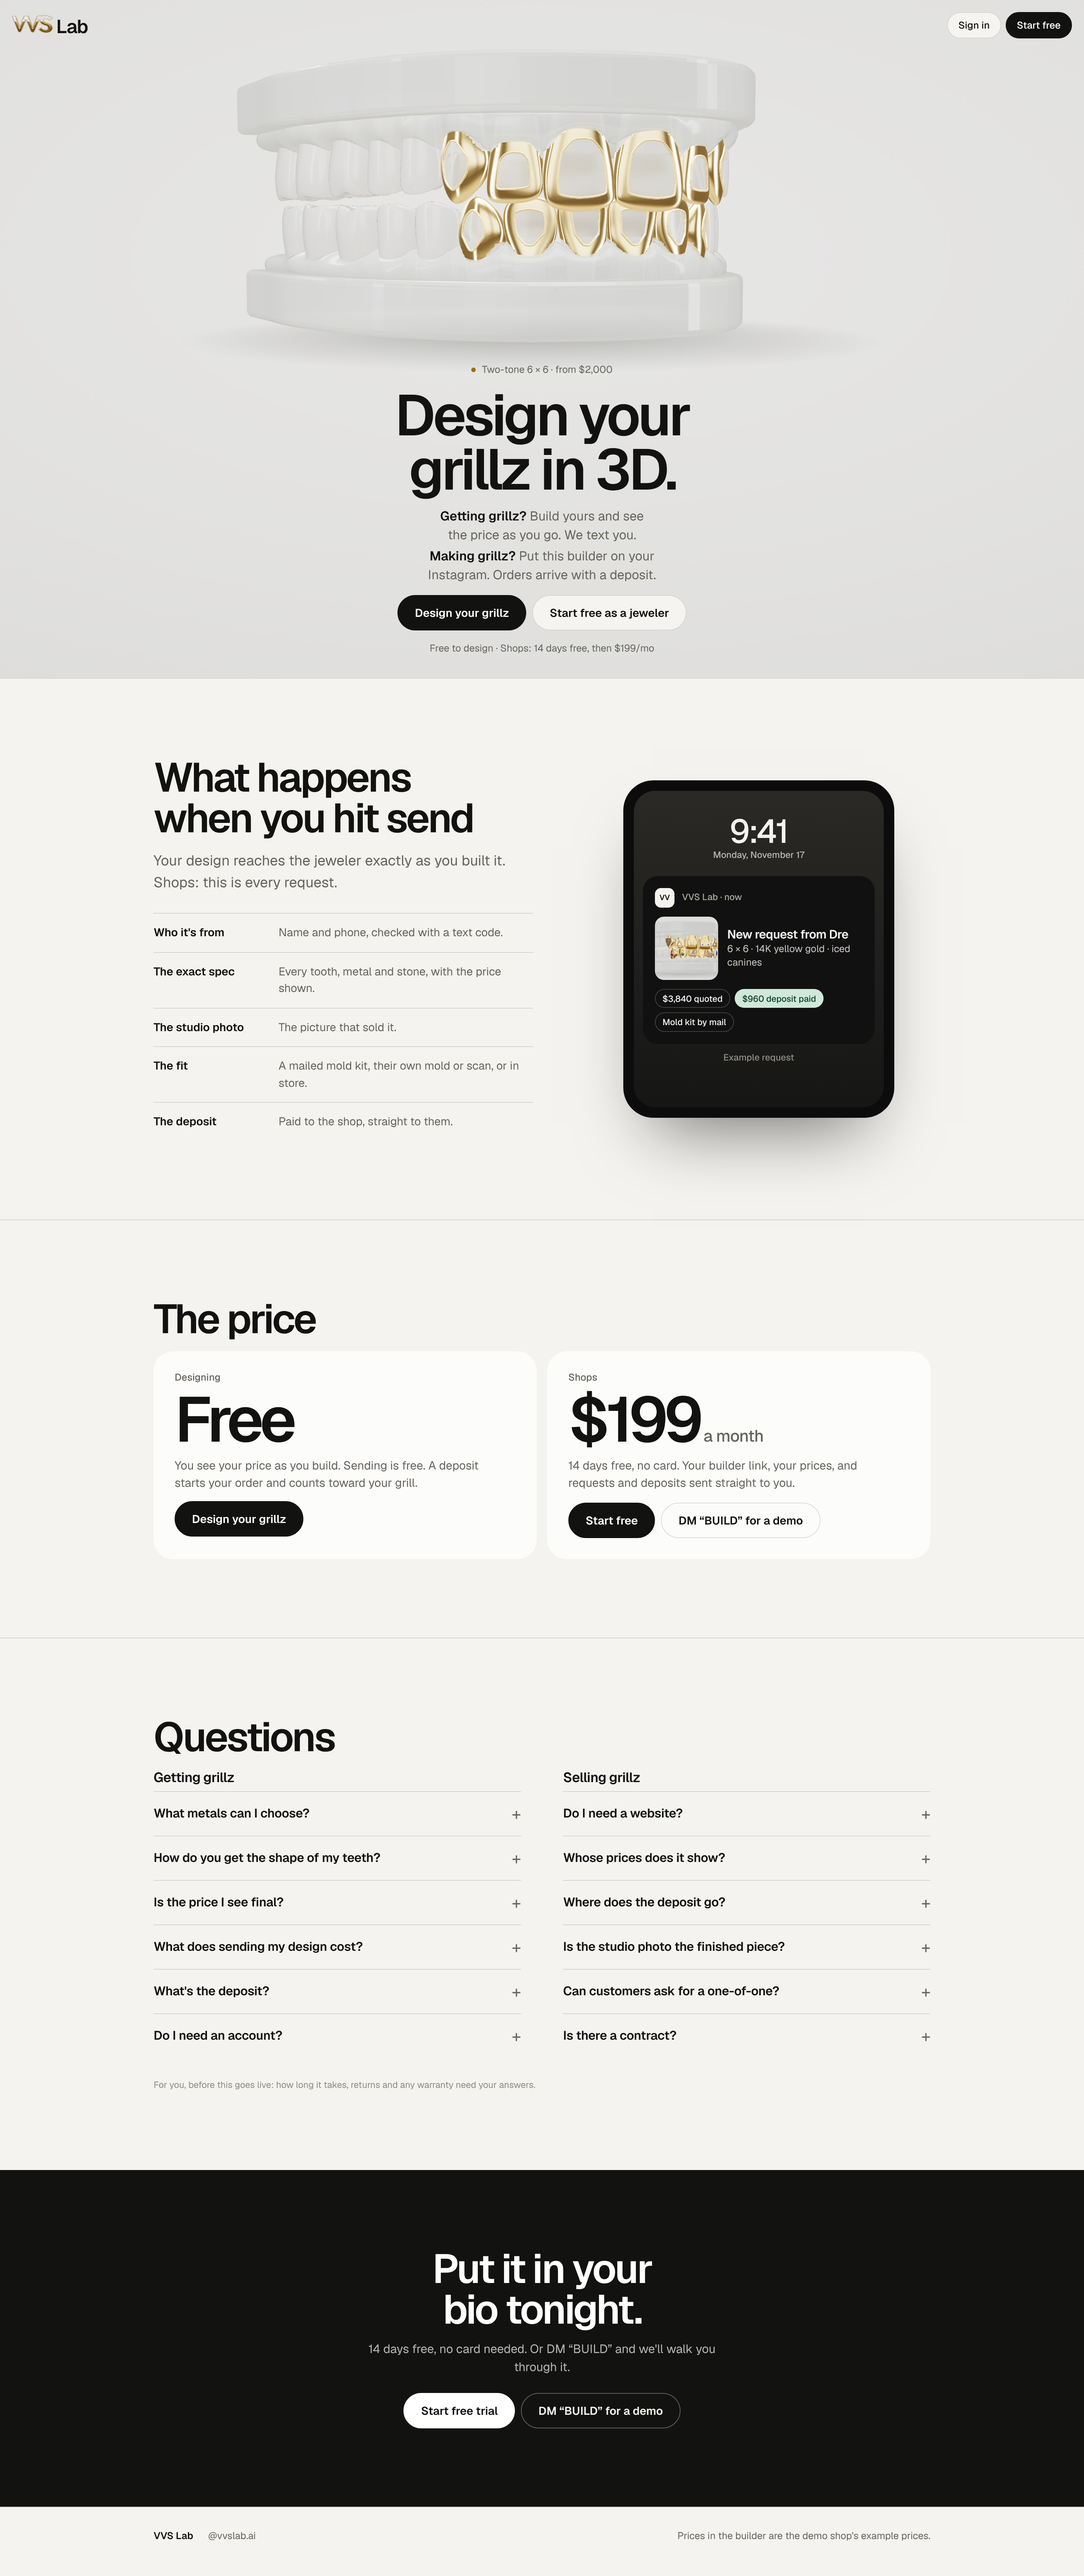
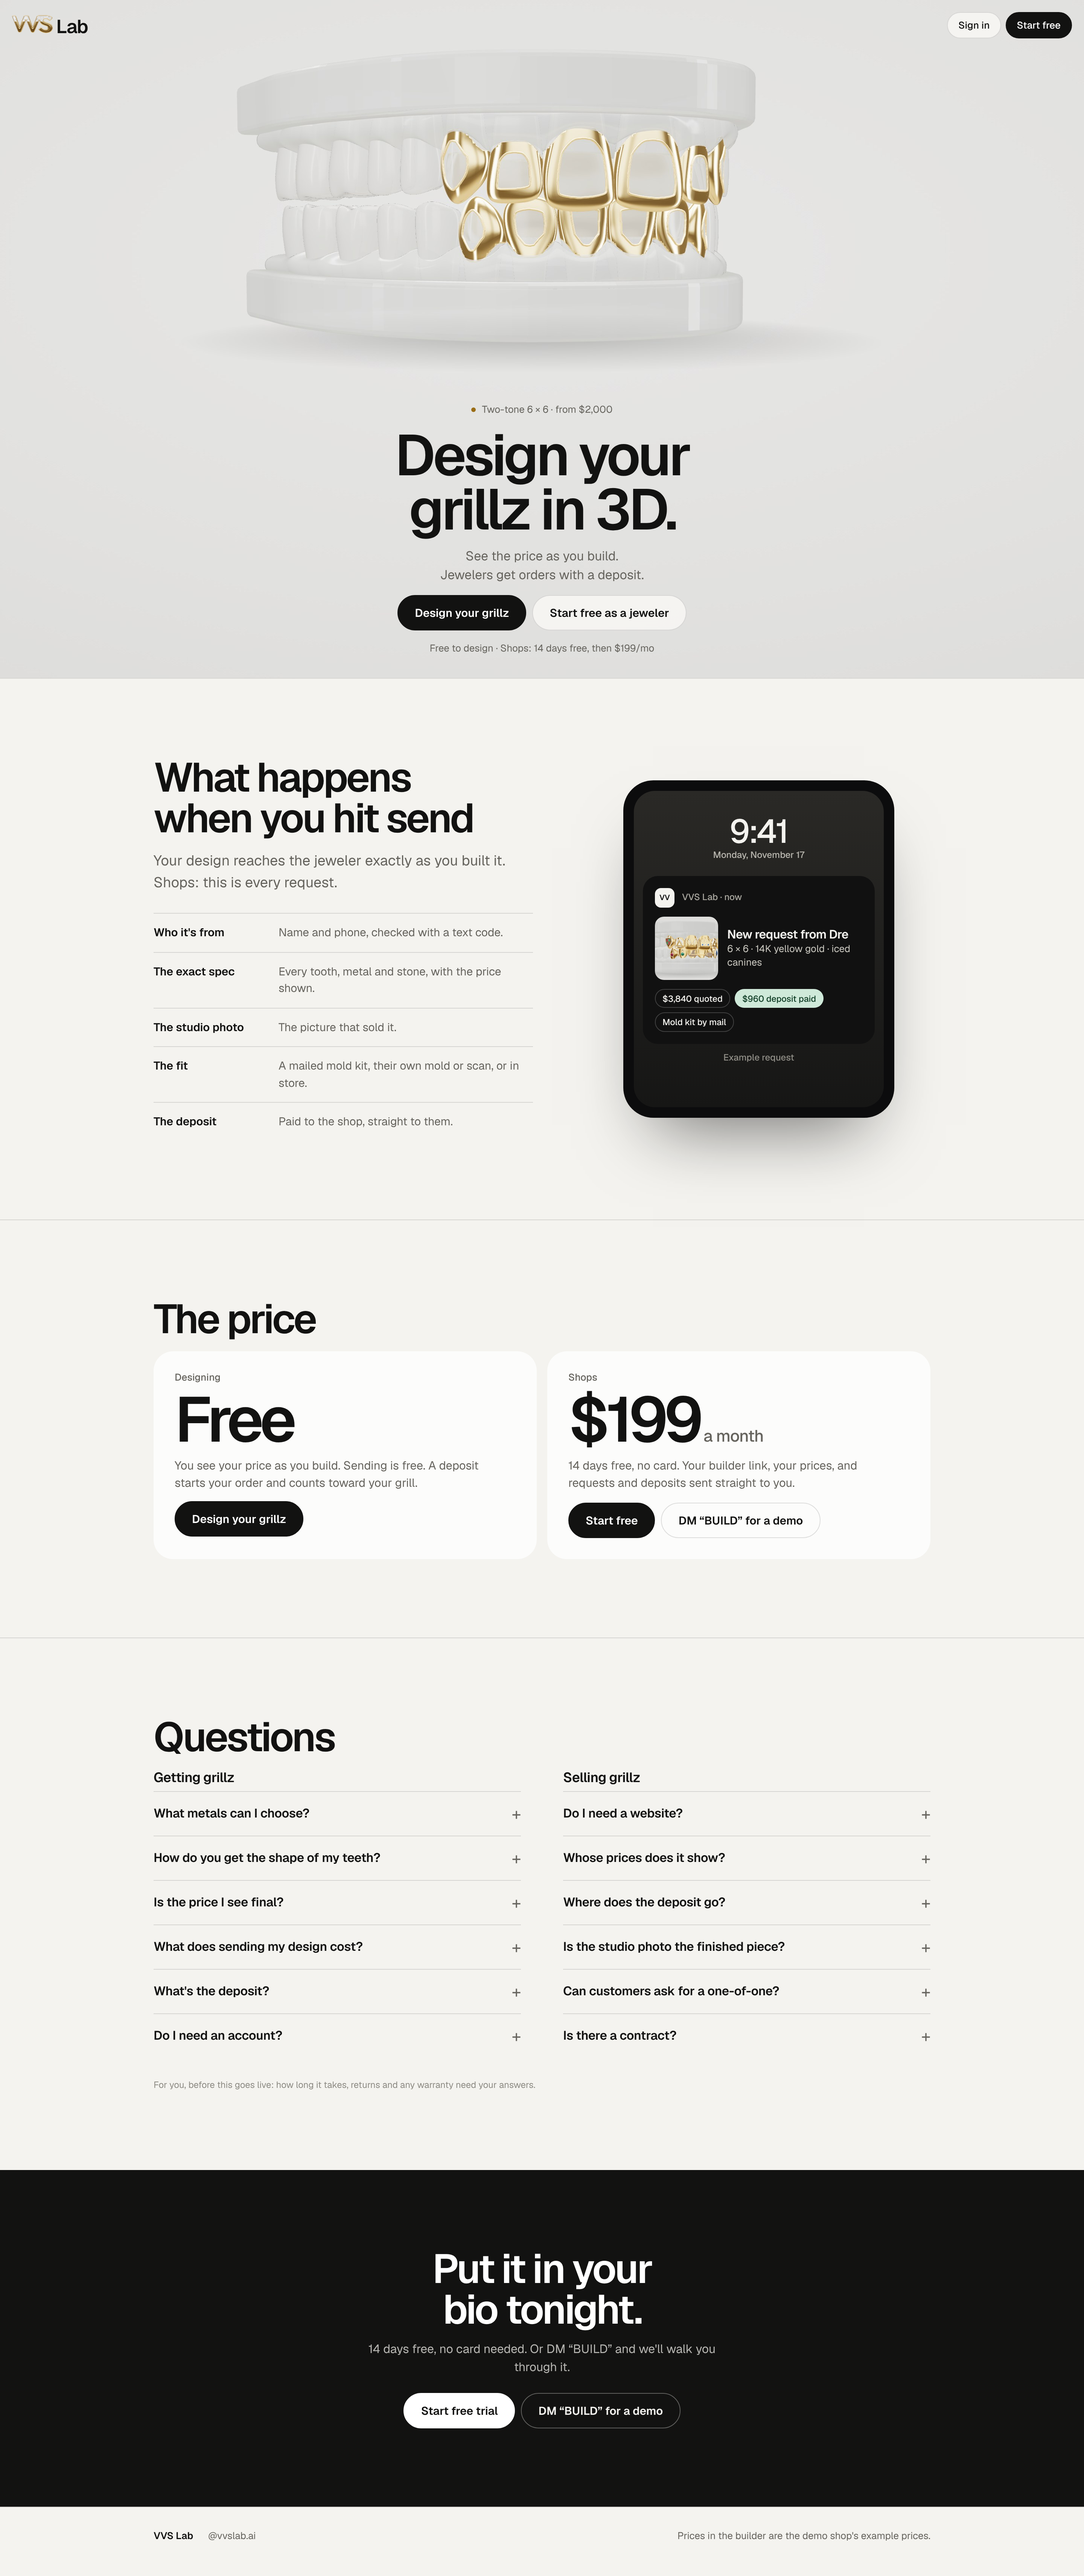
Front door: hero line rewritten to two lines, no question labels (owner's pick)
Claude-Session: https://claude.ai/code/session_01LZ4MHz7w8kESG6Mjwtib1r

Changed region(s): [[0.3438, 0.1557, 0.6562, 0.218]]

diff --git a/docs/redesign/creator-lab/creator.html b/docs/redesign/creator-lab/creator.html
@@ -488,7 +488,7 @@ a.btn2 { text-decoration: none; align-items: center; }
     <div class="home gut" id="home">
       <p class="nowshow"><b></b><span id="nowshow">One-of-one · quoted by the shop</span></p>
       <h1>Design your grillz in 3D.</h1>
-      <div class="two"><p><b>Getting grillz?</b> Build yours and see the price as you go. We text you.</p><p><b>Making grillz?</b> Put this builder on your Instagram. Orders arrive with a deposit.</p></div>
+      <div class="two"><p>See the price as you build.<br>Jewelers get orders with a deposit.</p></div>
       <div class="hcta"><button type="button" class="btn ink" data-h="design">Design your grillz</button><button type="button" class="btn" data-t="start">Start free as a jeweler</button></div>
       <p class="fine">Free to design · Shops: 14 days free, then $199/mo</p>
     </div>

diff --git a/docs/redesign/creator-lab/src/page.html b/docs/redesign/creator-lab/src/page.html
@@ -488,7 +488,7 @@ a.btn2 { text-decoration: none; align-items: center; }
     <div class="home gut" id="home">
       <p class="nowshow"><b></b><span id="nowshow">One-of-one · quoted by the shop</span></p>
       <h1>Design your grillz in 3D.</h1>
-      <div class="two"><p><b>Getting grillz?</b> Build yours and see the price as you go. We text you.</p><p><b>Making grillz?</b> Put this builder on your Instagram. Orders arrive with a deposit.</p></div>
+      <div class="two"><p>See the price as you build.<br>Jewelers get orders with a deposit.</p></div>
       <div class="hcta"><button type="button" class="btn ink" data-h="design">Design your grillz</button><button type="button" class="btn" data-t="start">Start free as a jeweler</button></div>
       <p class="fine">Free to design · Shops: 14 days free, then $199/mo</p>
     </div>

diff --git a/docs/redesign/export/vvs-landing.html b/docs/redesign/export/vvs-landing.html
@@ -484,7 +484,7 @@ a.btn2 { text-decoration: none; align-items: center; }
     <div class="home gut" id="home">
       <p class="nowshow"><b></b><span id="nowshow">Two-tone 6 × 6 · from $2,000</span></p>
       <h1>Design your grillz in 3D.</h1>
-      <div class="two"><p><b>Getting grillz?</b> Build yours and see the price as you go. We text you.</p><p><b>Making grillz?</b> Put this builder on your Instagram. Orders arrive with a deposit.</p></div>
+      <div class="two"><p>See the price as you build.<br>Jewelers get orders with a deposit.</p></div>
       <div class="hcta"><button type="button" class="btn ink" data-h="design">Design your grillz</button><button type="button" class="btn" data-t="start">Start free as a jeweler</button></div>
       <p class="fine">Free to design · Shops: 14 days free, then $199/mo</p>
     </div>

diff --git a/docs/redesign/plan.md b/docs/redesign/plan.md
@@ -209,6 +209,7 @@ The direction is a blank-canvas rebuild in the Stone room, with nothing carried 
 
 | Date | Decision | Your answer |
 | --- | --- | --- |
+| Nov 17 | The hero line | "getting grillz? build yours … the question marks are weird and 4 lines is too much. fix ux writing". Picked on a slide: "See the price as you build. Jewelers get orders with a deposit." Two lines, no labels; the two buttons still split shoppers and jewelers |
 | Nov 17 | The 3D mark and "Lab" sizing | You asked for the VVS mark in the grillz' materials, liked it: "make it perfect then replaca. also the word mark "lab" is a little too small and feels off. fix sizing". The 3D mark (yellow gold, white-gold iced band, cut stones and beads) replaces the flat mark in the lab's top bar and the emails (new files; the live site's `vvs-mark.png` untouched). "Lab" picked on a slide: A, capitals ¾ of the mark's height, on its baseline (25px beside a 24px mark), over equal height, equal height at 500, and leaving it at 17px centred. Renders and the tracer: `docs/brand/vvs-3d/` |
 | Nov 17 | The logo lockup | The gold "VVS" mark + "Lab" in Geist (option 1), in the lab's top bar now. Palette checked: ink on stone 16.9:1, muted 5.3:1, gold 4.1:1 (headline words only), dark mode passes; fine print uses the muted grey, not the faint one |
 | Nov 17 | VVS Lab's brand and the emails: first picks | This chat moved on to the brand and the emails (the other chat has the AI builds and the start page). Logo: keep the gold iced "VVS" mark, add a "VVS Lab" wordmark in the redesign's type for the top bar. Emails follow the redesign's look (ink, gold, stone, Geist), not October's cream, red and serif. Karat, the mascot, is retired. Email style: "Quiet" (Linear-like): big plain headline, the customer's design as the only picture, one button, details below |
